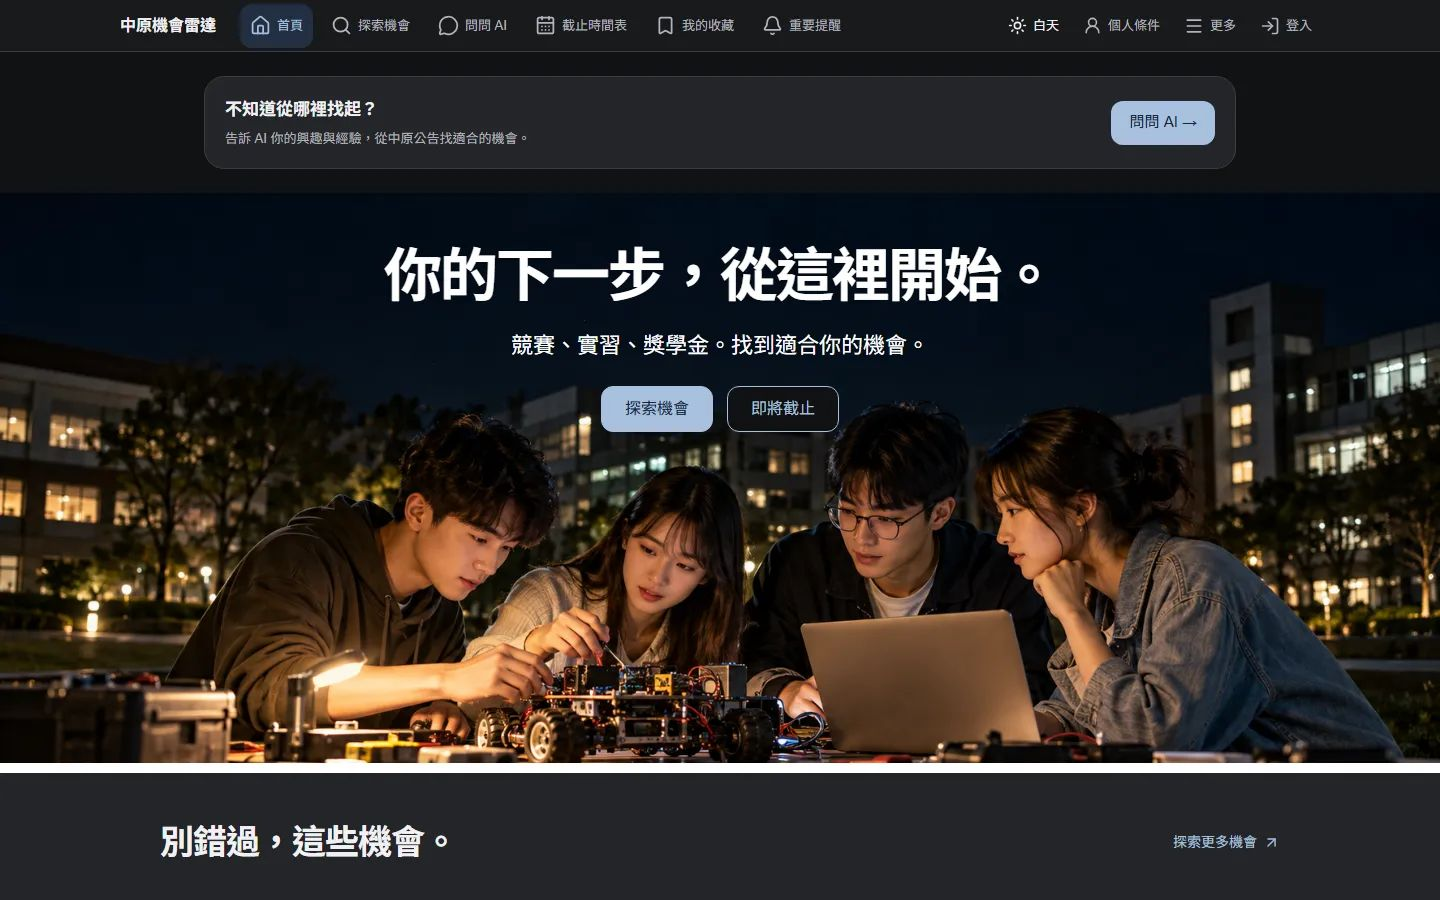
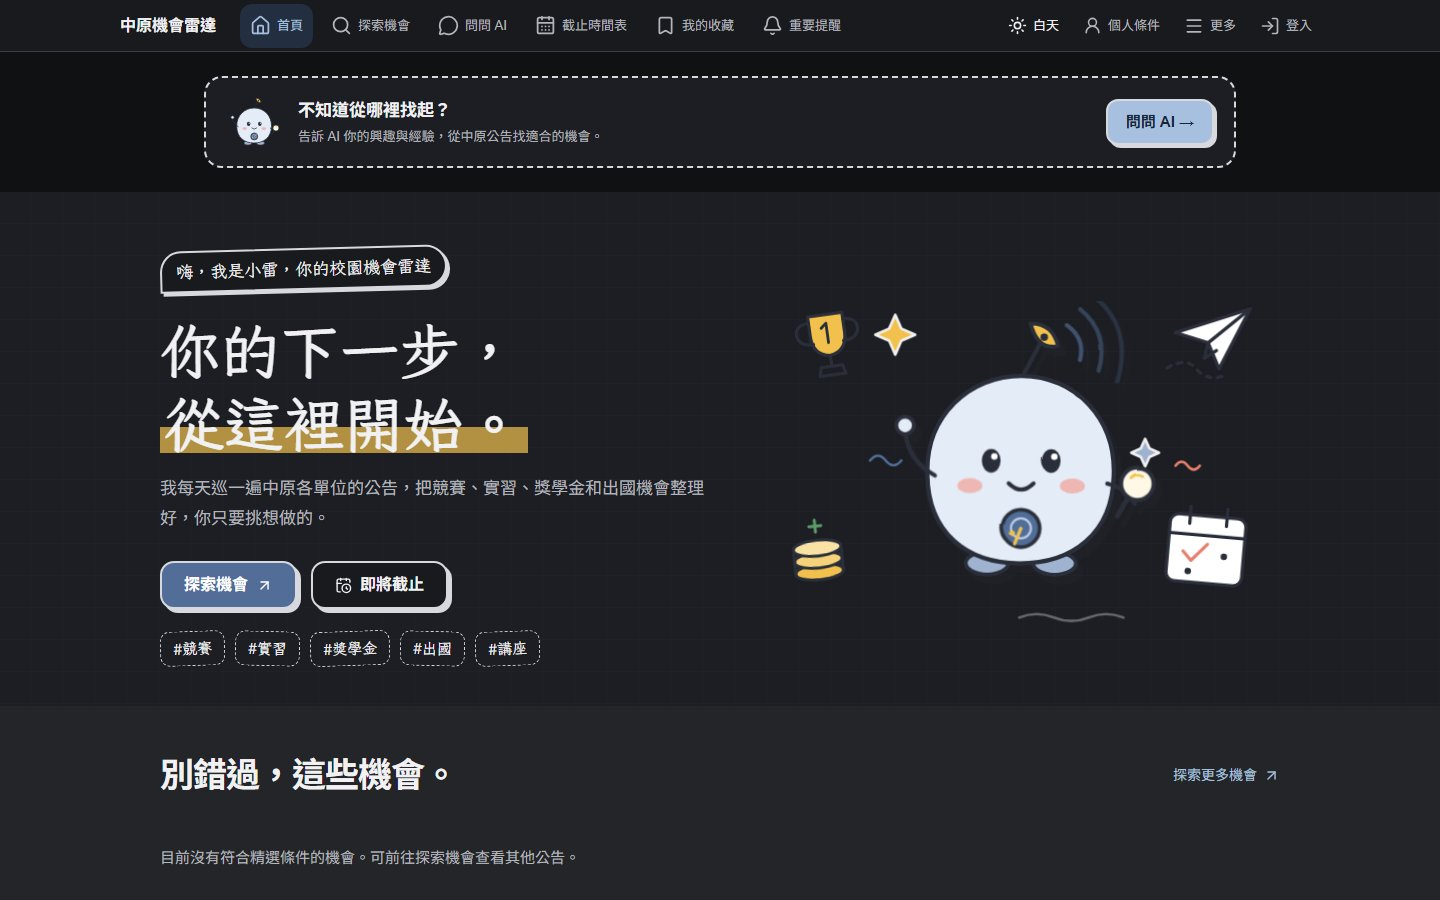
Update radar screenshot to new homepage

diff --git a/index.html b/index.html
@@ -168,7 +168,7 @@
       <div class="more">
         <p>競賽、實習、獎學金都收。有截止時間表、收藏和重要提醒，也能跟 AI 說自己的興趣，讓它從公告裡挑。10 月底整個搬到 Cloudflare，五千多筆資料一起搬過去。</p>
         <p class="work-links"><a href="https://cycu-radar-app.johnny970120.workers.dev" target="_blank" rel="noopener">打開網站 ↗</a></p>
-        <div class="more-photos"><img src="img/radar.jpg" alt="中原機會雷達首頁" loading="lazy"></div>
+        <div class="more-photos"><img src="img/radar.jpg?v=2" alt="中原機會雷達首頁" loading="lazy"></div>
       </div>
     </details></li>
 
@@ -340,7 +340,7 @@
       </div>
     </article>
     <article class="work">
-      <a href="https://cycu-radar-app.johnny970120.workers.dev" target="_blank" rel="noopener"><img src="img/radar.jpg" alt="中原機會雷達首頁" loading="lazy"></a>
+      <a href="https://cycu-radar-app.johnny970120.workers.dev" target="_blank" rel="noopener"><img src="img/radar.jpg?v=2" alt="中原機會雷達首頁" loading="lazy"></a>
       <div>
         <h3>中原機會雷達</h3>
         <p><b>為什麼：</b>競賽、實習、獎學金的公告分散在學校十幾個網站。</p>
